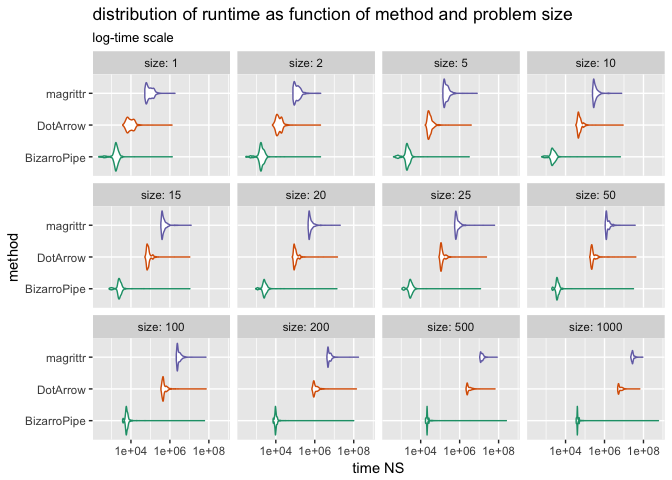
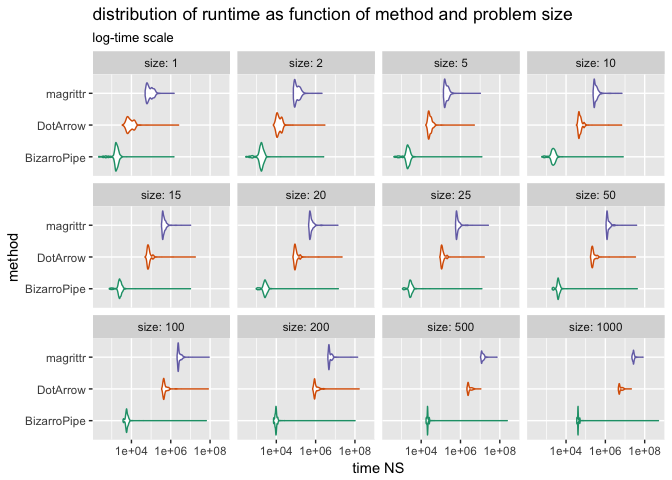
re-run

diff --git a/extras/PipePerformance.md b/extras/PipePerformance.md
@@ -11,7 +11,6 @@ So we will compare:
 ``` r
 library("microbenchmark")
 library("wrapr")
-library("rlang")
 suppressPackageStartupMessages(library("ggplot2"))
 suppressPackageStartupMessages(library("dplyr"))
 
@@ -124,79 +123,79 @@ print(bm)
 
     ## Unit: nanoseconds
     ##                expr      min         lq         mean     median         uq
-    ##     BizarroPipe_1()      223     1450.5     3042.800     1704.0     2015.0
-    ##        DotArrow_1()     3814     6541.5    12424.995     8772.0    12853.0
-    ##        magrittr_1()    51479    62541.0   101455.019    83377.5   125001.0
-    ##     BizarroPipe_2()      291     1554.0     3889.358     1800.0     2259.5
-    ##        DotArrow_2()     6784    11079.5    17550.867    13644.0    19006.0
-    ##        magrittr_2()    75767    90329.0   142984.105   117321.0   158600.0
-    ##     BizarroPipe_5()      403     1780.5     5212.444     2058.5     2503.0
-    ##        DotArrow_5()    17151    24345.5    35926.211    28151.0    34415.5
-    ##        magrittr_5()   137932   162278.0   239053.456   197304.5   251206.5
-    ##    BizarroPipe_10()      591     1885.0     8852.037     2201.0     2738.5
-    ##       DotArrow_10()    33964    44462.0    64763.019    49750.0    59228.0
-    ##       magrittr_10()   242076   278208.5   368409.124   311659.0   380460.0
-    ##    BizarroPipe_15()      757     2233.5    13420.592     2538.0     2981.0
-    ##       DotArrow_15()    52322    66608.0    94327.757    74315.5    84371.5
-    ##       magrittr_15()   343500   395121.5   523396.727   439235.0   533167.5
-    ##    BizarroPipe_20()      924     2286.0    16449.091     2604.0     3091.5
-    ##       DotArrow_20()    69623    86461.0   124867.739    95763.5   110531.0
-    ##       magrittr_20()   455972   514032.5   668856.030   564054.5   680252.0
-    ##    BizarroPipe_25()     1103     2582.5    14843.743     2973.5     3507.5
-    ##       DotArrow_25()    86934   107146.0   157891.106   116907.5   136437.5
-    ##       magrittr_25()   554952   632000.0   873522.579   697587.5   853869.0
-    ##    BizarroPipe_50()     1969     3430.5    34512.485     3780.5     4322.5
-    ##       DotArrow_50()   173835   212084.5   324047.065   231036.5   274433.0
-    ##       magrittr_50()  1084363  1220441.0  1567185.864  1303327.5  1677804.5
-    ##   BizarroPipe_100()     3726     5522.5    65718.201     5938.5     6686.0
-    ##      DotArrow_100()   347799   420497.0   604768.874   458170.0   559596.0
-    ##      magrittr_100()  2128653  2386251.0  3066232.741  2592979.5  3296936.5
-    ##   BizarroPipe_200()     7209     9221.5   109945.228     9731.5    10550.0
-    ##      DotArrow_200()   716868   874016.0  1259461.428   954484.0  1272027.5
-    ##      magrittr_200()  4209192  4755430.0  6063837.117  5184378.5  6476041.0
-    ##   BizarroPipe_500()    17649    20783.0   276567.545    21342.0    22718.5
-    ##      DotArrow_500()  2142531  2419576.5  3148125.854  2582553.5  3423126.0
-    ##      magrittr_500() 10764596 12092576.0 14363287.174 13653379.0 15512648.5
-    ##  BizarroPipe_1000()    35108    39645.0   629563.380    40491.5    42683.0
-    ##     DotArrow_1000()  4751244  5193870.5  6484469.055  5628264.0  7324629.0
-    ##     magrittr_1000() 22340141 25896045.5 29198092.538 27575497.0 29908192.5
+    ##     BizarroPipe_1()      218     1487.0     3139.755     1695.5     2001.0
+    ##        DotArrow_1()     3433     6163.5    12999.901     7784.5    11858.0
+    ##        magrittr_1()    49829    62822.0    95200.413    78610.5   114451.0
+    ##     BizarroPipe_2()      280     1467.0     4301.379     1727.5     2031.0
+    ##        DotArrow_2()     7113    10602.5    17390.713    12787.0    17695.5
+    ##        magrittr_2()    73743    86724.5   127466.063   106197.5   147280.0
+    ##     BizarroPipe_5()      407     1807.0    14244.722     2092.5     2472.5
+    ##        DotArrow_5()    17296    23383.5    34216.489    26419.5    32318.5
+    ##        magrittr_5()   135956   157452.0   211875.183   181659.5   229692.5
+    ##    BizarroPipe_10()      581     1866.5    10304.842     2222.0     2635.5
+    ##       DotArrow_10()    33662    44322.0    63515.168    49484.0    57845.5
+    ##       magrittr_10()   238419   271837.5   357692.266   309189.0   370709.5
+    ##    BizarroPipe_15()      748     2250.5    12670.308     2541.5     2945.5
+    ##       DotArrow_15()    49363    66508.0   102125.599    73261.5    83083.0
+    ##       magrittr_15()   339390   389158.5   480230.140   428515.0   502061.5
+    ##    BizarroPipe_20()      951     2313.0    16949.975     2679.0     3125.5
+    ##       DotArrow_20()    70845    85476.5   130378.549    93767.0   107204.0
+    ##       magrittr_20()   442793   506885.0   628354.029   553673.0   648457.0
+    ##    BizarroPipe_25()     1124     2532.0    15153.660     2850.5     3257.0
+    ##       DotArrow_25()    88798   106773.5   144098.398   116323.0   131956.5
+    ##       magrittr_25()   562559   622933.5   778756.911   670203.0   777214.0
+    ##    BizarroPipe_50()     1974     3660.5    45936.433     4010.0     4435.5
+    ##       DotArrow_50()   176262   206930.0   315354.165   225220.0   261132.0
+    ##       magrittr_50()  1088647  1203396.0  1470626.672  1281050.5  1525488.5
+    ##   BizarroPipe_100()     3726     5302.0    69946.426     5741.5     6368.0
+    ##      DotArrow_100()   344709   422063.5   607110.504   456855.5   534813.5
+    ##      magrittr_100()  2103665  2357188.0  2874376.488  2490454.0  2994347.0
+    ##   BizarroPipe_200()     7222     8990.5   110747.350     9605.0    10236.0
+    ##      DotArrow_200()   707313   859382.5  1226806.945   916473.0  1102727.0
+    ##      magrittr_200()  4210584  4692415.5  5851795.199  4932842.5  6133636.5
+    ##   BizarroPipe_500()    17720    20401.5   260509.678    21064.5    21861.0
+    ##      DotArrow_500()  2137651  2397499.0  2884622.506  2530492.5  3248841.5
+    ##      magrittr_500() 10476379 11885952.5 13912516.990 13098358.5 14854595.0
+    ##  BizarroPipe_1000()    35125    39785.0   543036.769    40619.5    41972.0
+    ##     DotArrow_1000()  4608568  5032309.5  6016676.741  5290646.5  6851192.5
+    ##     magrittr_1000() 22409747 25208182.0 27492732.563 26932330.0 28467091.0
     ##        max neval
-    ##    1312662  1000
-    ##    1282194  1000
-    ##    1815532  1000
-    ##    1959195  1000
-    ##    1955750  1000
-    ##    2009213  1000
-    ##    3082939  1000
-    ##    3902866  1000
-    ##    7921555  1000
-    ##    6507407  1000
-    ##    8972479  1000
-    ##    7590817  1000
-    ##   10614314  1000
-    ##   10458728  1000
-    ##   12260598  1000
-    ##   13669700  1000
-    ##   14501473  1000
-    ##   20160148  1000
-    ##   11771805  1000
-    ##   23659671  1000
-    ##   61862316  1000
-    ##   30578136  1000
-    ##   40459797  1000
-    ##   37373252  1000
-    ##   59400940  1000
-    ##   72311249  1000
-    ##   70872219  1000
-    ##   99764489  1000
-    ##  136890724  1000
-    ##  174935489  1000
-    ##  249443844  1000
-    ##   65575058  1000
-    ##   84600522  1000
-    ##  586765055  1000
-    ##   64848392  1000
-    ##   92018863  1000
+    ##    1449992  1000
+    ##    2511012  1000
+    ##    1481279  1000
+    ##    2559523  1000
+    ##    2943457  1000
+    ##    2101715  1000
+    ##   12154266  1000
+    ##    5026276  1000
+    ##   10253470  1000
+    ##    8056899  1000
+    ##    6714027  1000
+    ##    6959494  1000
+    ##   10085243  1000
+    ##   17638852  1000
+    ##   10249257  1000
+    ##   14258632  1000
+    ##   22047819  1000
+    ##   13552797  1000
+    ##   12207524  1000
+    ##   16096811  1000
+    ##   26037982  1000
+    ##   41905593  1000
+    ##   33789457  1000
+    ##   38700690  1000
+    ##   64057370  1000
+    ##   81102424  1000
+    ##   89230660  1000
+    ##  100994956  1000
+    ##  163409513  1000
+    ##  136706251  1000
+    ##  238808124  1000
+    ##   10864113  1000
+    ##   72084879  1000
+    ##  501085619  1000
+    ##   20900840  1000
+    ##   82613695  1000
 
 ``` r
 autoplot(bm)
@@ -248,7 +247,7 @@ ggplot(d, aes(x=size, y=time, color=fn)) +
 ![](PipePerformance_files/figure-markdown_github/replot-2.png)
 
 ``` r
-# new that adds a name column to a list of dataframes
+# verb that adds a name column to a list of dataframes
 add_name_column <- function(dlist, destinationColumn) {
   res <- dlist
   for(ni in names(dlist)) {
@@ -265,17 +264,15 @@ dfits <- d %.>%
   split(., .$fn) %.>%
   lapply(., 
          function(di) { 
-           lm(time ~ size, data=di) 
+           mi <- lm(time ~ size, data=di) 
+           ctab <- as.data.frame(summary(mi)$coefficients)
+           ctab$coef <- rownames(ctab)
+           ctab
          }) %.>%
-  lapply(., function(fi) {
-    ctab <- as.data.frame(summary(fi)$coefficients)
-    ctab$coef <- rownames(ctab)
-    ctab
-  }) %.>%
   add_name_column(., 'method') %.>%
   bind_rows(.) %.>%
   arrange(., method, coef) %.>%
-  select(.,  method, coef, Estimate, `Std. Error`,  `t value`, `Pr(>|t|)`)
+  select(.,  method, coef, Estimate, `Std. Error`, `Pr(>|t|)`)
 
 # "Intercept" is roughly start-up cost 
 # "size" is roughly the slope or growth rate of execution time
@@ -283,17 +280,10 @@ dfits <- d %.>%
 print(dfits)
 ```
 
-    ##        method        coef     Estimate  Std. Error       t value
-    ## 1 BizarroPipe (Intercept)     35.78478 61925.88670  5.778647e-04
-    ## 2 BizarroPipe        size    612.85658   187.86421  3.262232e+00
-    ## 3    DotArrow (Intercept)  -9399.41395 18604.47148 -5.052234e-01
-    ## 4    DotArrow        size   6453.01708    56.44028  1.143335e+02
-    ## 5    magrittr (Intercept) 103716.33958 31861.11817  3.255264e+00
-    ## 6    magrittr        size  29010.22635    96.65689  3.001361e+02
-    ##      Pr(>|t|)
-    ## 1 0.999538940
-    ## 2 0.001108476
-    ## 3 0.613411231
-    ## 4 0.000000000
-    ## 5 0.001136012
-    ## 6 0.000000000
+    ##        method        coef    Estimate  Std. Error     Pr(>|t|)
+    ## 1 BizarroPipe (Intercept)   6914.4621 54367.99799 8.988009e-01
+    ## 2 BizarroPipe        size    531.1036   164.93588 1.285046e-03
+    ## 3    DotArrow (Intercept)   4083.1405 18734.25030 8.274713e-01
+    ## 4    DotArrow        size   5967.9969    56.83399 0.000000e+00
+    ## 5    magrittr (Intercept) 110768.5593 28244.04012 8.836521e-05
+    ## 6    magrittr        size  27464.9379    85.68378 0.000000e+00
